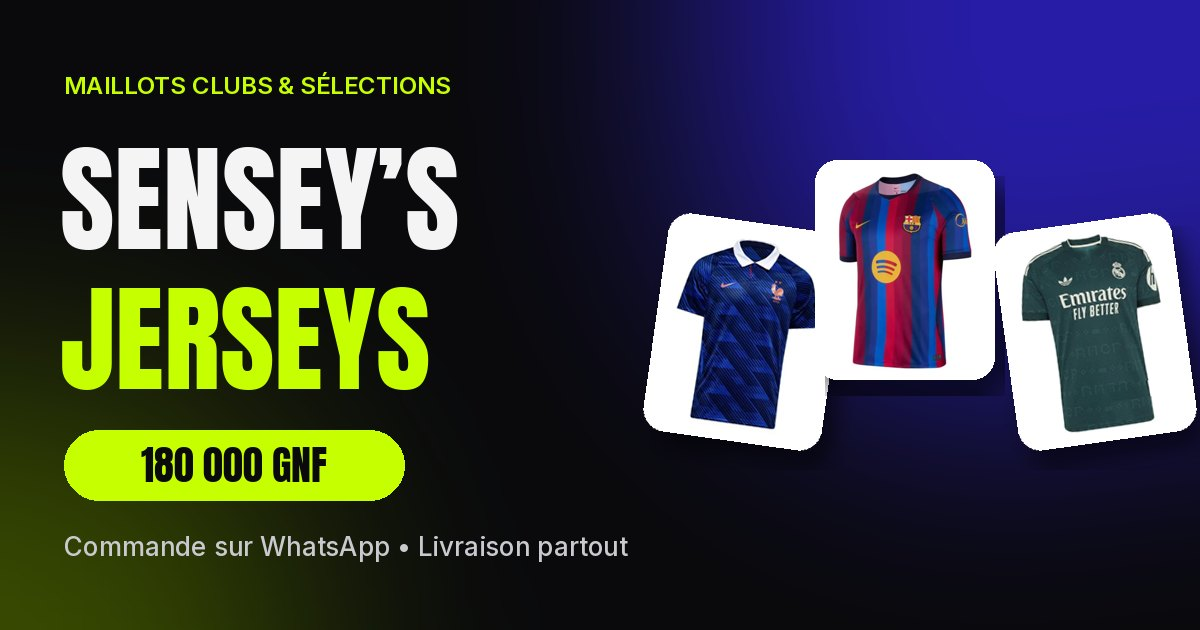
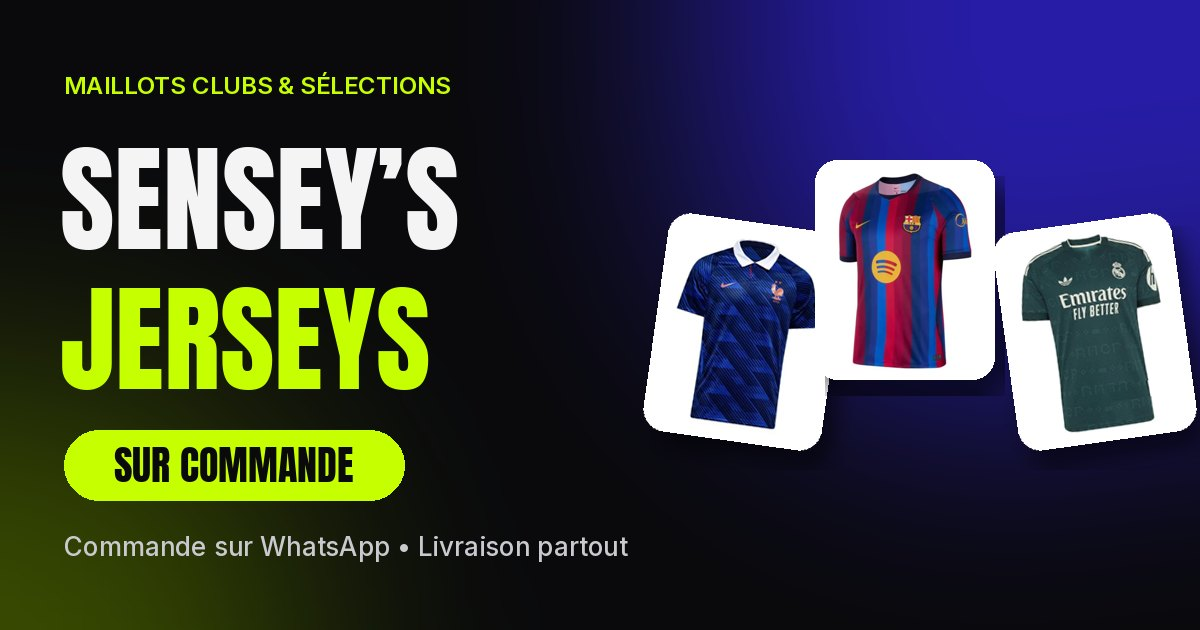
Prix masqués partout (prix sur demande via WhatsApp), réglable avec showPrices
Claude-Session: https://claude.ai/code/session_011M26KcvoerhSpkSCsR9ya3

Changed region(s): [[0.0925, 0.6937, 0.3083, 0.7841]]

diff --git a/site/index.html b/site/index.html
@@ -4,20 +4,20 @@
   <meta charset="utf-8" />
   <meta name="viewport" content="width=device-width, initial-scale=1" />
   <title>SENSEY’S JERSEYS — Boutique de maillots</title>
-  <meta name="description" content="Maillots de foot clubs et sélections à 180 000 GNF. Commande sur WhatsApp, livraison partout." />
+  <meta name="description" content="Maillots de foot clubs et sélections, sur commande. Commande sur WhatsApp, livraison partout." />
   <link rel="canonical" href="https://senseys-jerseys.netlify.app/" />
   <meta name="theme-color" content="#0a0a0c" />
   <!-- Aperçu quand le lien est partagé (WhatsApp, Instagram, Facebook…) -->
   <meta property="og:type" content="website" />
   <meta property="og:site_name" content="SENSEY’S JERSEYS" />
   <meta property="og:locale" content="fr_FR" />
-  <meta property="og:title" content="SENSEY’S JERSEYS — Maillots de foot à 180 000 GNF" />
+  <meta property="og:title" content="SENSEY’S JERSEYS — Maillots de foot clubs &amp; sélections" />
   <meta property="og:description" content="Clubs et sélections, sur commande. Commande sur WhatsApp, livraison partout." />
   <meta property="og:url" content="https://senseys-jerseys.netlify.app/" />
   <meta property="og:image" content="https://senseys-jerseys.netlify.app/og-image.jpg" />
   <meta property="og:image:width" content="1200" />
   <meta property="og:image:height" content="630" />
-  <meta property="og:image:alt" content="SENSEY’S JERSEYS — maillots de foot à 180 000 GNF" />
+  <meta property="og:image:alt" content="SENSEY’S JERSEYS — maillots de foot clubs et sélections" />
   <meta name="twitter:card" content="summary_large_image" />
   <meta name="twitter:image" content="https://senseys-jerseys.netlify.app/og-image.jpg" />
   <link rel="preload" href="fonts/anton-latin-400-normal.woff2" as="font" type="font/woff2" crossorigin />
@@ -69,7 +69,7 @@
       </div>
       <ul class="hero-stats reveal">
         <li><strong data-count="250" data-plus>0</strong><span>maillots vendus en 3 ans</span></li>
-        <li><strong data-count="180000">0</strong><span>GNF le maillot</span></li>
+        <li><strong data-count="17" data-products-count>0</strong><span>modèles disponibles</span></li>
         <li><strong data-count="4.5" data-decimals="1">0</strong><span>note clients</span></li>
       </ul>
     </div>
@@ -85,8 +85,8 @@
   <!-- ============ MARQUEE ============ -->
   <div class="marquee" aria-hidden="true">
     <div class="marquee-track">
-      <span>LIVRAISON PARTOUT</span><i>✦</i><span>TOUS LES MAILLOTS À 180 000 GNF</span><i>✦</i><span>COMMANDE SUR WHATSAPP</span><i>✦</i><span>MOBILE MONEY OU ESPÈCES À LA LIVRAISON</span><i>✦</i><span>250+ MAILLOTS VENDUS</span><i>✦</i>
-      <span>LIVRAISON PARTOUT</span><i>✦</i><span>TOUS LES MAILLOTS À 180 000 GNF</span><i>✦</i><span>COMMANDE SUR WHATSAPP</span><i>✦</i><span>MOBILE MONEY OU ESPÈCES À LA LIVRAISON</span><i>✦</i><span>250+ MAILLOTS VENDUS</span><i>✦</i>
+      <span>LIVRAISON PARTOUT</span><i>✦</i><span>CLUBS &amp; SÉLECTIONS</span><i>✦</i><span>COMMANDE SUR WHATSAPP</span><i>✦</i><span>MOBILE MONEY OU ESPÈCES À LA LIVRAISON</span><i>✦</i><span>250+ MAILLOTS VENDUS</span><i>✦</i>
+      <span>LIVRAISON PARTOUT</span><i>✦</i><span>CLUBS &amp; SÉLECTIONS</span><i>✦</i><span>COMMANDE SUR WHATSAPP</span><i>✦</i><span>MOBILE MONEY OU ESPÈCES À LA LIVRAISON</span><i>✦</i><span>250+ MAILLOTS VENDUS</span><i>✦</i>
     </div>
   </div>
 
@@ -197,8 +197,8 @@
         <details class="conditions" id="conditions">
           <summary>Conditions de vente</summary>
           <ol>
-            <li><b>Commande.</b> Le panier du site prépare ta commande ; elle n'est validée qu'après confirmation de notre part sur WhatsApp (modèle, taille, délai, prix de la livraison).</li>
-            <li><b>Prix.</b> 180 000 GNF par maillot. Le prix de la livraison dépend de ton lieu et t'est annoncé avant validation.</li>
+            <li><b>Commande.</b> Le panier du site prépare ta commande ; elle n'est validée qu'après confirmation de notre part sur WhatsApp (modèle, taille, prix, délai, livraison).</li>
+            <li><b>Prix.</b> Le prix des maillots et celui de la livraison (selon ton lieu) te sont communiqués sur WhatsApp avant la validation de la commande.</li>
             <li><b>Délai.</b> Les maillots sont sur commande : le délai t'est confirmé sur WhatsApp au moment de la commande.</li>
             <li><b>Paiement.</b> Mobile money ou espèces à la livraison, selon la zone. Aucun paiement n'est demandé sur le site.</li>
             <li><b>Taille.</b> Vérifie le guide des tailles avant de commander. Pour tout problème de taille ou de produit, écris-nous sur WhatsApp dès la réception : on cherche une solution ensemble.</li>
@@ -280,8 +280,8 @@
       <ul class="cart-items" id="cartItems"></ul>
       <div class="drawer-foot">
         <div class="row"><span>Livraison</span><span>Selon ton lieu</span></div>
-        <div class="row total"><span>Total maillots</span><span id="total"></span></div>
-        <p class="ship-note">📍 Le prix de la livraison dépend de ton lieu, on te le confirme sur WhatsApp.</p>
+        <div class="row total"><span>Maillots</span><span id="total"></span></div>
+        <p class="ship-note">💬 Le prix des maillots et de la livraison (selon ton lieu) t'est confirmé sur WhatsApp.</p>
         <label class="sr-only" for="custName">Ton nom</label>
         <input type="text" id="custName" placeholder="Ton nom" autocomplete="name" />
         <label class="sr-only" for="custCity">Ville ou adresse de livraison</label>

diff --git a/site/js/app.js b/site/js/app.js
@@ -9,6 +9,7 @@
   const SIZES = ["M", "L", "XL", "XXL"];
   const CAT_LABEL = { club: "Club", selection: "Sélection" };
 
+  const PRICES = !!S.showPrices;
   const money = (n) => {
     const v = n.toLocaleString("fr-FR", { maximumFractionDigits: 2 }).replace(/\u202f|\u00a0/g, " ");
     return S.currencyAfter ? `${v} ${S.currency}` : `${S.currency}${v}`;
@@ -31,6 +32,9 @@
   /* ---------------- Static text from config ---------------- */
   $$("[data-shop-name]").forEach((el) => (el.textContent = S.name));
   $("[data-tagline]").textContent = S.tagline;
+  document.documentElement.classList.toggle("no-prices", !PRICES);
+  $$("[data-products-count]").forEach((el) => (el.dataset.count = P.length));
+  if (!PRICES) $$('#sort option[value^="price"]').forEach((o) => o.remove());
   $("#year").textContent = new Date().getFullYear();
   $("#waContact").href = `https://wa.me/${S.whatsapp}`;
   $("#mailContact").href = `mailto:${S.email}`;
@@ -179,7 +183,7 @@
         <div class="product-info">
           <span class="meta">${metaOf(p)}</span>
           <h3>${escapeXML(p.name)}</h3>
-          <div class="price">${money(p.price)} ${p.oldPrice ? `<s>${money(p.oldPrice)}</s>` : ""}</div>
+          ${PRICES ? `<div class="price">${money(p.price)} ${p.oldPrice ? `<s>${money(p.oldPrice)}</s>` : ""}</div>` : ""}
           ${p.status === "commande" ? `<div class="on-order">Sur commande</div>` : p.status === "stock" && !out && p.stock <= 5 ? `<div class="stock-low">Plus que ${p.stock} en stock</div>` : ""}
         </div>
       </article>`;
@@ -223,7 +227,7 @@
     $(".modal-visual").style.setProperty("--glow", p.colors[0] + "77");
     $("#mCat").textContent = metaOf(p);
     $("#mTitle").textContent = p.name;
-    $("#mPrice").innerHTML = `${money(p.price)}${p.oldPrice ? `<s>${money(p.oldPrice)}</s>` : ""}`;
+    $("#mPrice").innerHTML = PRICES ? `${money(p.price)}${p.oldPrice ? `<s>${money(p.oldPrice)}</s>` : ""}` : `<span class="price-ask">Prix sur demande via WhatsApp</span>`;
     const stock = $("#mStock");
     const low = p.status === "stock" && p.stock <= 5;
     stock.textContent =
@@ -249,7 +253,7 @@
   const productLink = (id) => location.href.split("#")[0] + "#maillot-" + id;
   $("#mShare").addEventListener("click", async () => {
     const p = byId(m.id), url = productLink(m.id);
-    const text = `${p.name} — ${money(p.price)} chez ${S.name}`;
+    const text = PRICES ? `${p.name} — ${money(p.price)} chez ${S.name}` : `${p.name} chez ${S.name}`;
     try {
       if (navigator.share) { await navigator.share({ title: p.name, text, url }); return; }
       await navigator.clipboard.writeText(url);
@@ -360,14 +364,14 @@
           <div class="cart-thumb">${face(p)}</div>
           <div>
             <h4>${escapeXML(p.name)}</h4>
-            <small>Taille ${it.size} • ${money(unitPrice(it))} l'unité</small>
+            <small>Taille ${it.size}${PRICES ? ` • ${money(unitPrice(it))} l'unité` : ""}</small>
             <div class="qty"><button data-act="minus" aria-label="Moins">−</button><span>${it.qty}</span><button data-act="plus" aria-label="Plus">+</button></div>
           </div>
-          <div><div class="line-price">${money(unitPrice(it) * it.qty)}</div><button class="rm" data-act="rm">Retirer</button></div>
+          <div>${PRICES ? `<div class="line-price">${money(unitPrice(it) * it.qty)}</div>` : ""}<button class="rm" data-act="rm">Retirer</button></div>
         </li>`;
       }).join("");
     }
-    $("#total").textContent = money(total);
+    $("#total").textContent = PRICES ? money(total) : `${count} maillot${count > 1 ? "s" : ""}`;
     $("#checkout").disabled = !cart.length;
   }
 
@@ -411,13 +415,13 @@
     const total = totalOf();
     const lines = cart.map((it) => {
       const p = byId(it.id);
-      return `• ${it.qty} × ${p.name} (taille ${it.size}) : ${money(unitPrice(it) * it.qty)}`;
+      return `• ${it.qty} × ${p.name} (taille ${it.size})${PRICES ? ` : ${money(unitPrice(it) * it.qty)}` : ""}`;
     });
     const msg = [
       `Bonjour ${S.name} 👋, je souhaite commander :`, "", ...lines, "",
-      `*Total maillots : ${money(total)}*`, "",
+      ...(PRICES ? [`*Total maillots : ${money(total)}*`, ""] : []),
       `Nom : ${name}`, `Lieu de livraison : ${city}`, "",
-      "Merci de me confirmer le prix de la livraison 🙏",
+      PRICES ? "Merci de me confirmer le prix de la livraison 🙏" : "Merci de me confirmer le prix, le délai et la livraison 🙏",
     ].join("\n");
     window.open(`https://wa.me/${S.whatsapp}?text=${encodeURIComponent(msg)}`, "_blank", "noopener");
   });

diff --git a/site/css/style.css b/site/css/style.css
@@ -402,6 +402,7 @@ h3 { font-size: 1.6rem; }
 .product-media.photo-light .jersey-photo { object-fit: contain; padding: 6%; filter: none; }
 .product-media.photo-cover .jersey-photo, .jersey-photo.cover { object-fit: cover; filter: none; }
 .product-media.photo-light::after { background: linear-gradient(115deg, transparent 40%, rgba(255, 255, 255, .55) 50%, transparent 60%); }
+.price-ask { font-size: 1rem; font-weight: 600; color: var(--accent); }
 .on-order { color: var(--accent); font-size: .78rem; margin-top: 6px; font-weight: 600; }
 .badge.soon { background: #ffd400; color: #111; }
 .modal-visual .flip.has-photo { width: min(380px, 100%); }

diff --git a/site/js/config.js b/site/js/config.js
@@ -10,7 +10,8 @@ window.SHOP = {
   whatsapp: "224626759433",  // numéro WhatsApp au format international, sans + ni espaces
   email: "renemoriba16@gmail.com",
   instagram: "https://instagram.com/rene_moriba",
-  price: 180000,            // prix unique de tous les maillots (en GNF)
+  showPrices: false,        // false = aucun prix affiché (prix donné sur WhatsApp) ; true = prix visibles
+  price: 180000,            // prix unique de tous les maillots (en GNF), utilisé si showPrices: true
 };
 
 /* ---------------------------------------------------------

diff --git a/README.md b/README.md
@@ -36,7 +36,8 @@ Site vitrine animé pour la vente de maillots, 100 % statique (HTML/CSS/JS, aucu
 **Fonctionnalités**
 - Hero animé : titre qui monte, maillot 3D (sur ordinateur uniquement, chargé après le reste), compteurs, marquee
 - Catalogue avec filtres (Clubs / Sélections), recherche et tri ; les maillots se retournent au survol
-- Prix unique : tous les maillots à 180 000 GNF
+- Prix masqués (« Prix sur demande via WhatsApp ») ; pour les réafficher : `showPrices: true` dans `config.js`
+  (penser alors à remettre le prix dans le bandeau défilant de `index.html` et dans l'image de partage)
 - Fiche produit : choix de taille et quantité
 - Panier animé (sauvegardé dans le navigateur), gestion du stock ; la taille est toujours demandée
 - Guide des tailles, bloc « Qui sommes-nous » et conditions de vente
